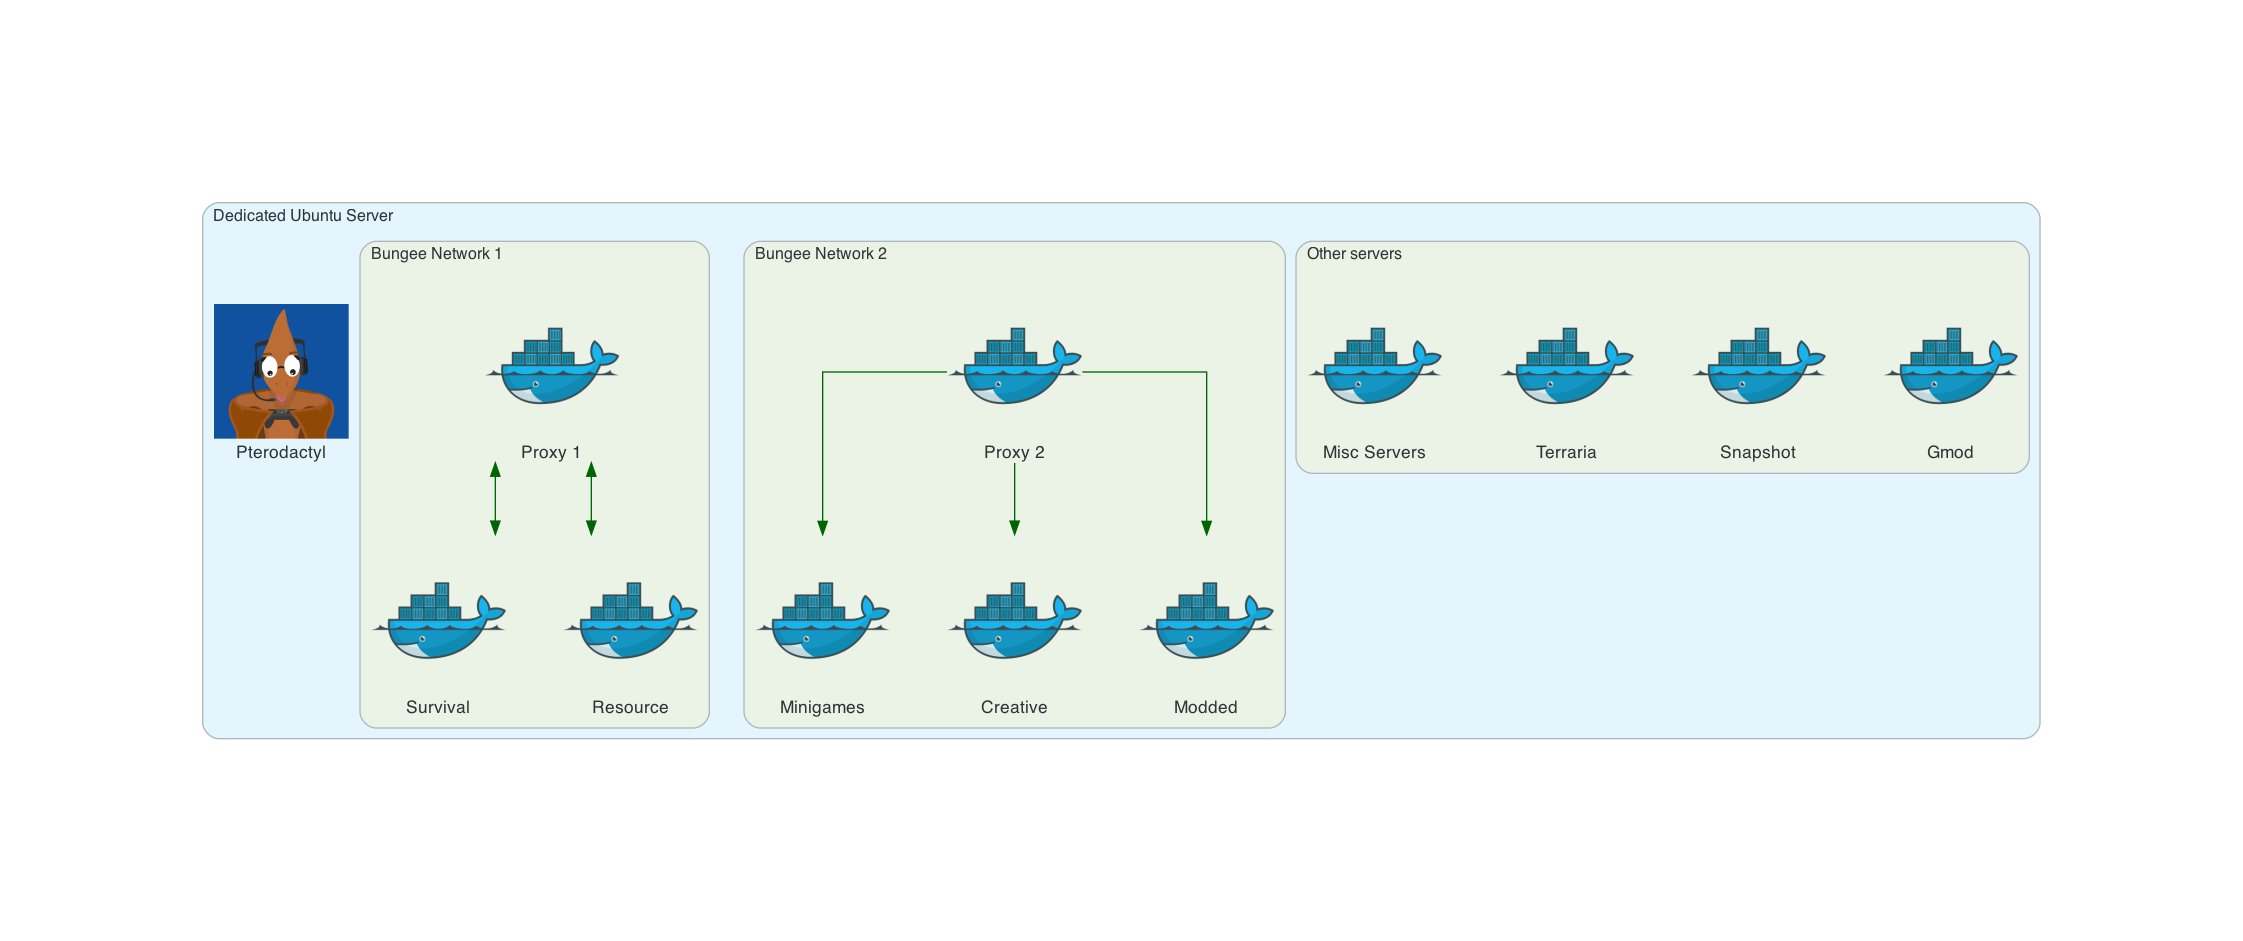
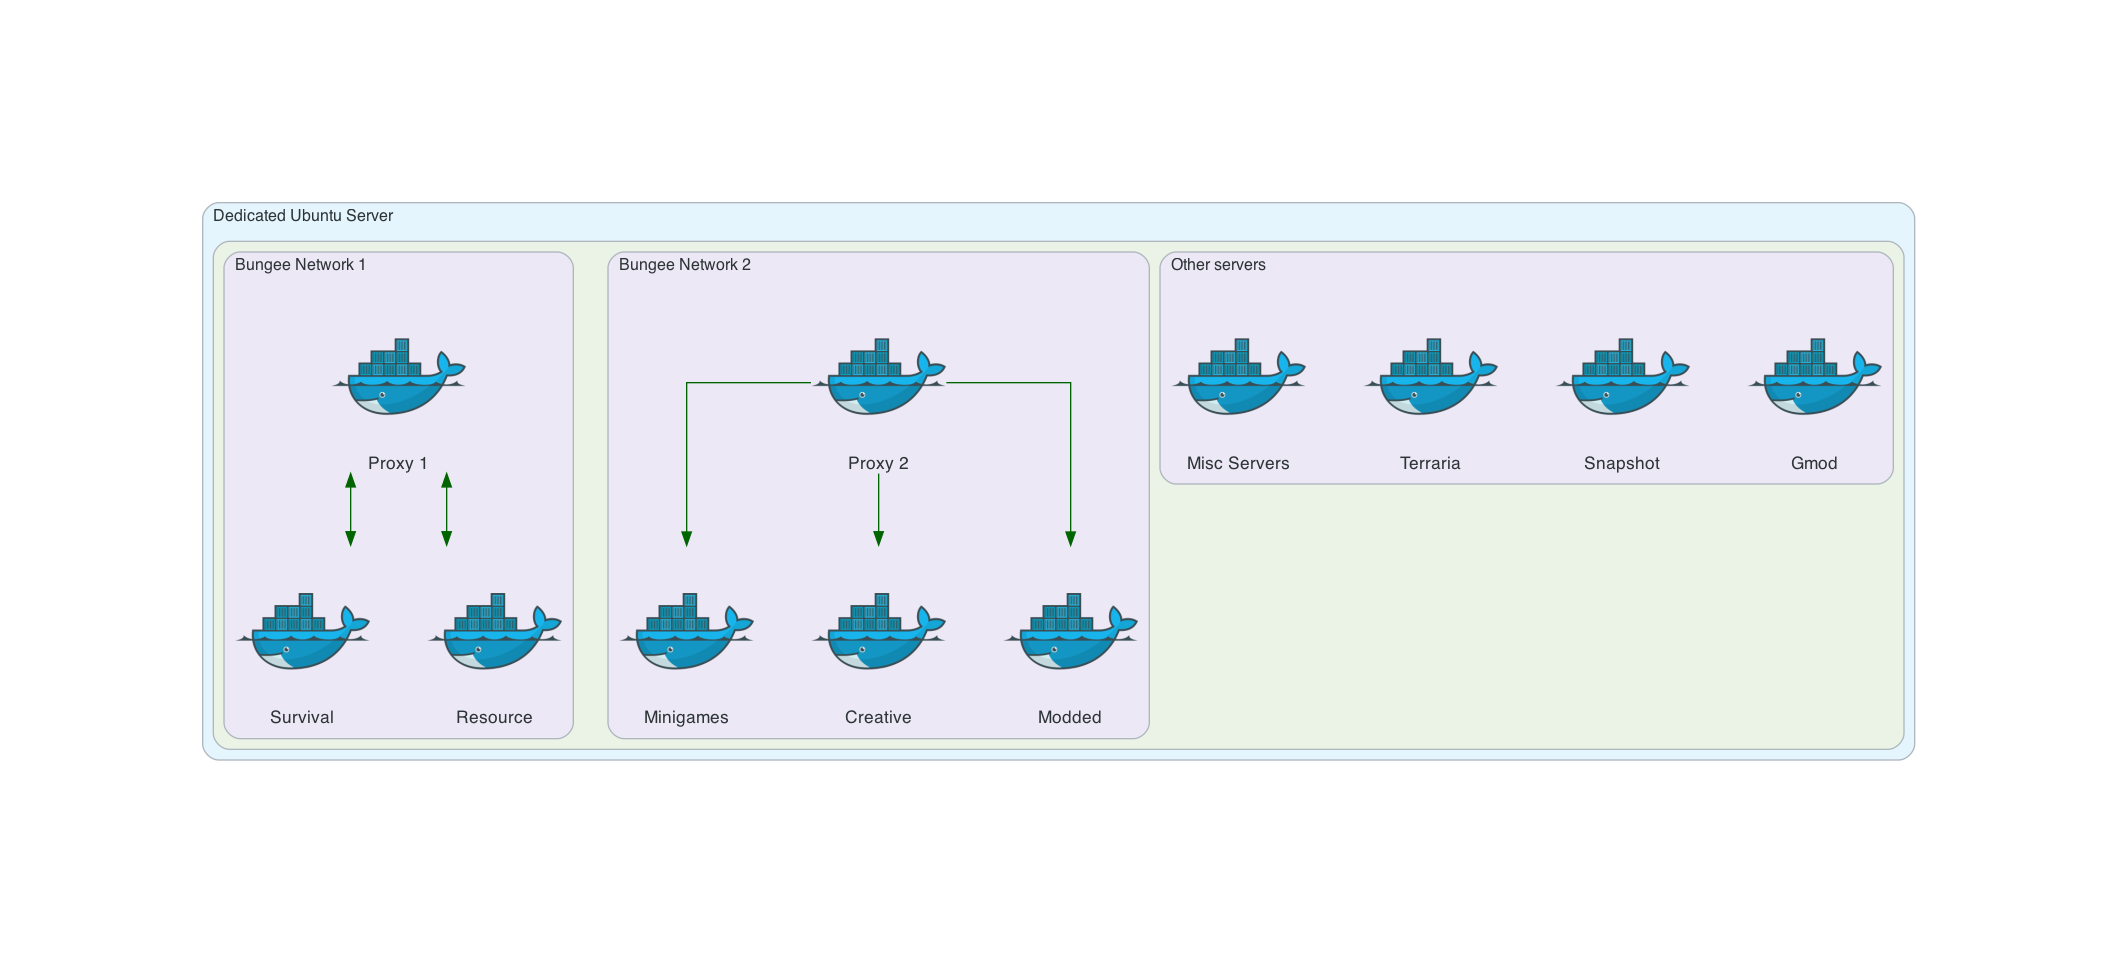
Improve main network layout

diff --git a/networks/main_network.py b/networks/main_network.py
@@ -5,6 +5,7 @@ from diagrams import Cluster, Diagram, Edge
 from diagrams.onprem.container import Docker
 from diagrams.onprem.database import MariaDB
 from diagrams.saas.chat import Discord
+from diagrams.generic.blank import Blank
 from diagrams.custom import Custom
 
 #Pterodactyl
@@ -14,7 +15,7 @@ urlretrieve(pterodactyl_url, pterodactyl_icon)
 
 #phpMyAdmin
 phpmyadmin_url = "https://upload.wikimedia.org/wikipedia/commons/4/4f/PhpMyAdmin_logo.svg"
-phpmyadmin_icon = "pterodactyl.png"
+phpmyadmin_icon = "phpmyadmin.png"
 urlretrieve(phpmyadmin_url, phpmyadmin_icon)
 
 #Dynmap
@@ -22,24 +23,29 @@ dynmap_url = "https://camarosa.xyz/img/dynmap.png"
 dynmap_icon = "dynmap.png"
 urlretrieve(dynmap_url, dynmap_icon)
 
-with Diagram(filename="main_network", show=True):
+with Diagram(filename="mainnetwork", show=True, direction="TB"):
 
     with Cluster("Dedicated Ubuntu Server"):
 
-        dynmap = Custom("Dynmap", dynmap_icon)
+
         applicationbot = Docker("Application Bot")
 
-        with Cluster("Bungee Network 1"):
-            proxy1 = Docker("Proxy 1")
-            survival = Docker("Survival")
-            resource = Docker("Resource")
-            proxy1 >> Edge(color="darkgreen") << survival
-            proxy1 >> Edge(color="darkgreen") << resource
-    
-        with Cluster("MySQL / MariaDB"):
-            maindb = MariaDB("Survival Databases")
-            resourcedb = MariaDB("Resource Databases")
-            phpmyadmin = Custom("phpMyAdmin", phpmyadmin_icon)
+        dynmap = Custom("Dynmap", dynmap_icon)
+
+        with Cluster(""):
+            with Cluster("Bungee Network 1"):
+                proxy1 = Docker("Proxy 1")
+                resource = Docker("Resource")
+                survival = Docker("Survival")   
+
+                proxy1 >> Edge(color="darkgreen") << survival
+                proxy1 >> Edge(color="darkgreen") << resource
+
+
+            with Cluster("          MariaDB"):
+                db = MariaDB("Shared Databases")
+                phpmyadmin = Custom("phpMyAdmin", phpmyadmin_icon)
+            
 
     applications = Discord("#applications")
     ingamechat = Discord("#ingamechat")
@@ -47,9 +53,8 @@ with Diagram(filename="main_network", show=True):
 
     applications >> applicationbot
     applicationbot >> proxy1
-    survival >> maindb
-    survival >> dynmap
-    resource >> resourcedb
+    survival >> db
+    resource >> db
+    db << phpmyadmin
     survival >> ingamechat
-    maindb >> phpmyadmin
-    resourcedb >> phpmyadmin
+    survival >> dynmap

diff --git a/game_servers/game_servers_grouped.py b/game_servers/game_servers_grouped.py
@@ -14,24 +14,24 @@ with Diagram(filename="game_servers_grouped", show=True, direction="TB"):
 
     with Cluster("Dedicated Ubuntu Server"):
 
-        with Cluster("Game Servers - Other servers"):
-            gmod = Docker("Gmod")
-            snapshot = Docker("Snapshot")
-            terraria = Docker("Terraria")
-            misc = Docker("Misc Servers")
-            nonbungee = [gmod, snapshot, terraria, misc]
+        with Cluster(""):
+            with Cluster("Game Servers - Other servers"):
+                gmod = Docker("Gmod")
+                snapshot = Docker("Snapshot")
+                terraria = Docker("Terraria")
+                misc = Docker("Misc Servers")
+                nonbungee = [gmod, snapshot, terraria, misc]
 
-        with Cluster("Game Servers - Bungee Network 2"):
-            proxy2 = Docker("Proxy Network 2")
-            creative = Docker("Creative")
-            modded = Docker("Modded")
-            minigames = Docker("Minigames")
-            proxy2 >> Edge(color="darkgreen") >> [minigames, creative, modded]
+            with Cluster("Game Servers - Bungee Network 2"):
+                proxy2 = Docker("Proxy Network 2")
+                creative = Docker("Creative")
+                modded = Docker("Modded")
+                minigames = Docker("Minigames")
+                proxy2 >> Edge(color="darkgreen") >> [minigames, creative, modded]
 
-        with Cluster("Game Servers - Bungee Network 1"):
-            proxy1 = Docker("Proxy Network 1")
-            survival = Docker("Survival")
-            resource = Docker("Resource")
-            proxy1 >> Edge(color="darkgreen") << survival
-            proxy1 >> Edge(color="darkgreen") << resource
-    
+            with Cluster("Game Servers - Bungee Network 1"):
+                proxy1 = Docker("Proxy Network 1")
+                survival = Docker("Survival")
+                resource = Docker("Resource")
+                proxy1 >> Edge(color="darkgreen") << survival
+                proxy1 >> Edge(color="darkgreen") << resource

diff --git a/dedicated/dedicated_server.py b/dedicated/dedicated_server.py
@@ -14,25 +14,24 @@ with Diagram(filename="dedicated_server", show=True, direction="TB"):
 
     with Cluster("Dedicated Ubuntu Server"):
 
-        pterodactyl = Custom("Pterodactyl", pterodactyl_icon)
+        with Cluster(""):
+            with Cluster("Other servers"):
+                gmod = Docker("Gmod")
+                snapshot = Docker("Snapshot")
+                terraria = Docker("Terraria")
+                misc = Docker("Misc Servers")
+                nonbungee = [gmod, snapshot, terraria, misc]
 
-        with Cluster("Other servers"):
-            gmod = Docker("Gmod")
-            snapshot = Docker("Snapshot")
-            terraria = Docker("Terraria")
-            misc = Docker("Misc Servers")
-            nonbungee = [gmod, snapshot, terraria, misc]
+            with Cluster("Bungee Network 2"):
+                proxy2 = Docker("Proxy 2")
+                creative = Docker("Creative")
+                modded = Docker("Modded")
+                minigames = Docker("Minigames")
+                proxy2 >> Edge(color="darkgreen") >> [minigames, creative, modded]
 
-        with Cluster("Bungee Network 2"):
-            proxy2 = Docker("Proxy 2")
-            creative = Docker("Creative")
-            modded = Docker("Modded")
-            minigames = Docker("Minigames")
-            proxy2 >> Edge(color="darkgreen") >> [minigames, creative, modded]
-
-        with Cluster("Bungee Network 1"):
-            proxy1 = Docker("Proxy 1")
-            survival = Docker("Survival")
-            resource = Docker("Resource")
-            proxy1 >> Edge(color="darkgreen") << survival
-            proxy1 >> Edge(color="darkgreen") << resource
+            with Cluster("Bungee Network 1"):
+                proxy1 = Docker("Proxy 1")
+                survival = Docker("Survival")
+                resource = Docker("Resource")
+                proxy1 >> Edge(color="darkgreen") << survival
+                proxy1 >> Edge(color="darkgreen") << resource

diff --git a/diagrams.py b/diagrams.py
@@ -1,0 +1,20 @@
+import os
+
+directory_to_check = "." # Which directory do you want to start with?
+
+def my_function(directory, file):
+    
+      print("Listing: " + directory)
+      print("\t-" + "\n\t-".join(os.listdir("."))) # List current working directory
+      print("python3 " + file)
+
+# Get all the subdirectories of directory_to_check recursively and store them in a list:
+directories = [os.path.abspath(x[0]) for x in os.walk(directory_to_check)]
+directories.remove(os.path.abspath(directory_to_check)) # If you don't want your main directory included
+files = [os.path.basename(y[0]) for y in os.walk(directory_to_check)]
+files.remove(os.path.basename(directory_to_check)) # If you don't want your main directory included
+
+for i in directories:
+    for j in files:
+        os.chdir(i)         # Change working Directory
+        my_function(i, j)      # Run your function

diff --git a/game_servers/game_servers_ungrouped.py b/game_servers/game_servers_ungrouped.py
@@ -27,4 +27,4 @@ with Diagram(filename="game_servers_ungrouped", show=True, direction="TB"):
             misc = Docker("Misc Servers")
             servers = [gmod, snapshot, terraria, misc, minigames, creative, modded, survival, resource]
 
-        pterodactyl >> servers
+            pterodactyl >> servers
